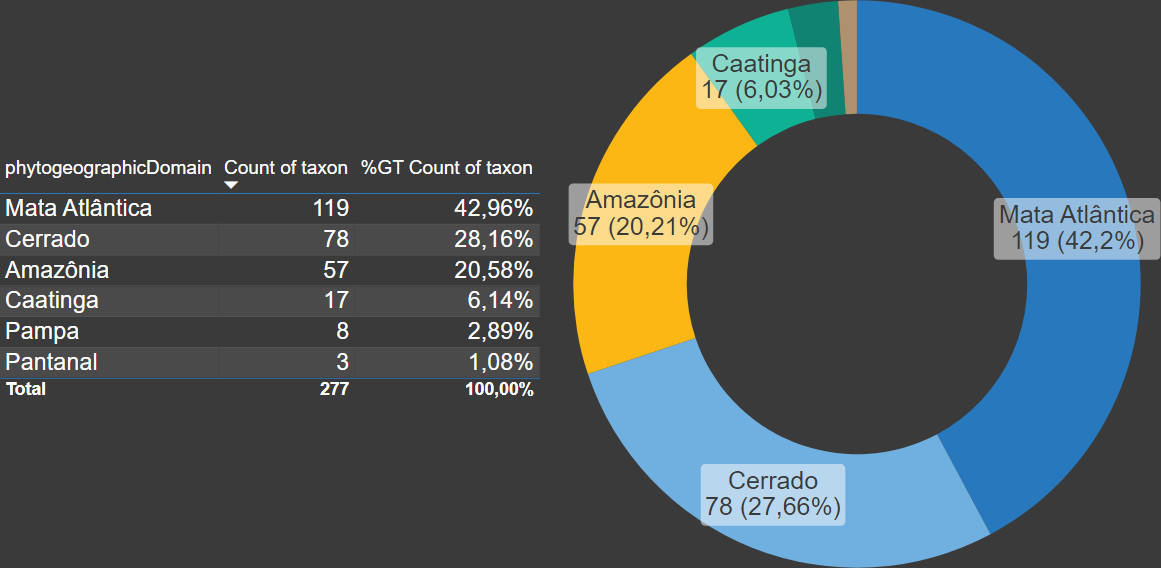
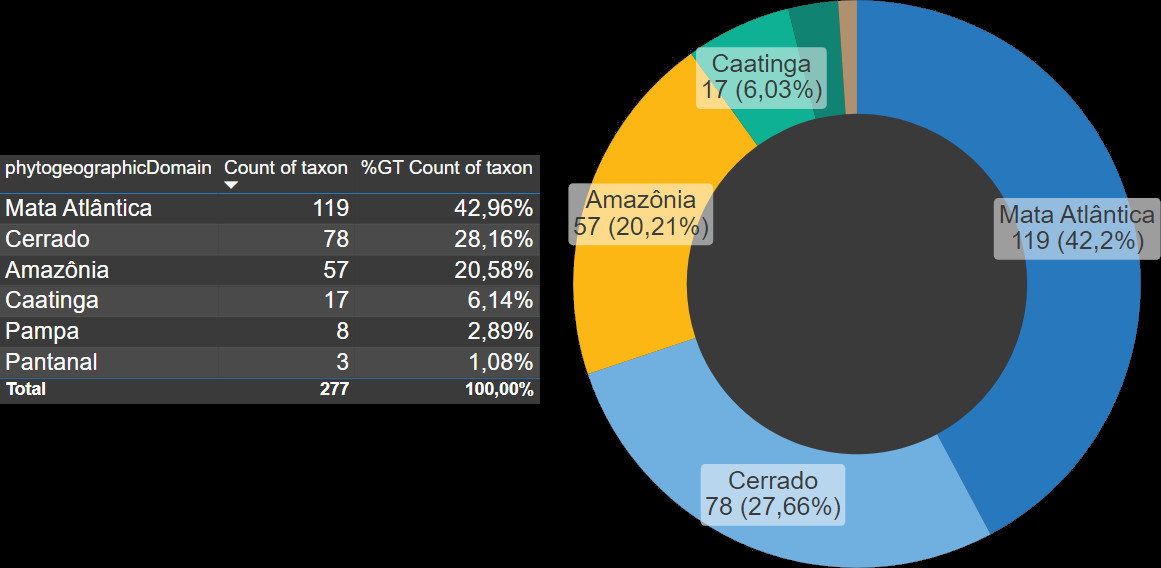
commit

diff --git a/index.html b/index.html
@@ -110,6 +110,46 @@
                     <h4>Endemic genera: 18</h4>
                     <img class="r-stretch" src="./images/endemicGenera.png">
                 </section>
+            </section>
+
+            <section data-transition="convex">
+                <section data-transition="none">
+                    <h4>top Brazilian genera: 56</h4>
+                    <img src="./images/genera-with-the-highest (1).png" style="width: 100%;">
+                </section>
+                <section data-transition="none">
+                    <h5>top Brazilian genera: 56</h5>
+                    <p></p>
+                    <img src="./images/genera-with-the-highest (2).png" style="width: 100%;">
+                </section>
+            </section>
+
+            <section data-transition="convex">
+                <h4>worldwide (species): 22,323</h4>
+                <img src="./images/world.png">
+                <small>source: WCVP, 2023 (2022-05-26)</small>
+            </section>
+
+            <section data-transition="convex">
+                <h4>Brazil: 2,857 (12.8%)</h4>
+                <img src="./images/Brazil.png">
+                <small>source: FFB http://floradobrasil.jbrj.gov.br/ (2023-05-19)</small>
+            </section>
+
+            <section data-transition="convex">
+                <h4>assessed: 1,024 (35.8%)</h4>
+                <img src="./images/assessed.png">
+            </section>
+
+            <section data-transition="convex">
+                <h4>Threatened species by biomes</h4>
+                <img src="./images/phytogeographicDomains.png">
+            </section>
+
+            <section data-transition="convex">
+                <section data-transition="convex">
+                    <h4>Threatened species</h4>
+                </section>
                 <section>
                     <h4><i>Tabaroa caatingicola</i></h4>
                     <table style="width: 100%;">
@@ -178,40 +218,6 @@
             </section>
 
             <section data-transition="convex">
-                <section data-transition="none">
-                    <h4>top Brazilian genera: 56</h4>
-                    <img src="./images/genera-with-the-highest (1).png" style="width: 100%;">
-                </section>
-                <section data-transition="none">
-                    <h5>top Brazilian genera: 56</h5>
-                    <p></p>
-                    <img src="./images/genera-with-the-highest (2).png" style="width: 100%;">
-                </section>
-                <section>
-                    <h5>Arapatiella emarginata</h5>
-                </section>
-            </section>
-
-            <section data-transition="none">
-                <h4>worldwide (species): 22,323</h4>
-                <img src="./images/world.png">
-                <small>source: WCVP, 2023 (2022-05-26)</small>
-            </section>
-
-            <section data-transition="none">
-                <h4>Brazil: 2,857 (12.8%)</h4>
-                <img src="./images/Brazil.png">
-                <small>source: FFB http://floradobrasil.jbrj.gov.br/ (2023-05-19)</small>
-            </section>
-
-            <section data-transition="none">
-                <h4>assessed: 1,024 (35.8%)</h4>
-                <img src="./images/assessed.png">
-            </section>
-
-
-
-            <section data-transition="convex">
                 <section data-transition="convex">
                     <h4>Tech stack</h4>
                     <img src="./images/js.png" style="height: 150px;">
@@ -240,7 +246,7 @@
             <section data-transition="convex">
                 <h4>Next steps</h4>
                 <ul>
-                    <li class="fragment fade-in-then-semi-out">Develop an assessment assistance dashboard using
+                    <li class="fragment fade-in-then-semi-out">Develop an assessment dashboard using
                         Angular.js <i class="fab fa-angular" style="color: lightcoral;"></i></li>
                     <li class="fragment fade-in-then-semi-out">Develop an automated algorithm for trend analysis in data
                         series</li>
@@ -255,6 +261,8 @@
 
             <section data-transition="convex">
                 <h4>Acknowledgements</h4>
+                <p>à Coordenação da Flora e Funga do Brasil (Drª. Rafaela Forzza) e aos Legume specialists</p>
+                <p>Aos curadores de herbários pela preservação e conservação das coleções brasileiras</p>
                 <img src="./images/bar.png">
             </section>
 
@@ -310,7 +318,7 @@
             <section data-transition="convex">
                 <section data-transition="convex">
                     <h4><i>threatened by domains</i></h4>
-                    <img src="./images/phytogeographicDomains.jpg">
+                    <img src="./images/phytogeographicDomains.png">
                 </section>
                 <section data-transition="convex">
                     <h4><i>Atlantic</i></h4>
